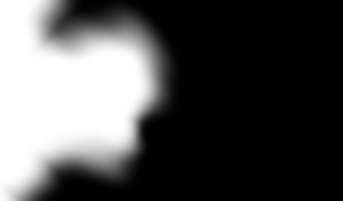
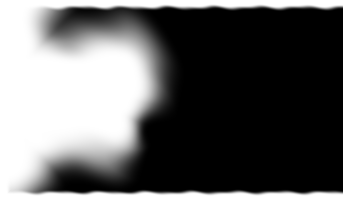
BTS release 42: phase 2 on by default, desktop seam fix (ready to publish)
- Phase 2 (phones and 960 to 1279, as 245a9b5) is ON by default: a
  plain `python3 build_site.py web` builds the approved site.
  HSS_P2=0 turns it off for comparison only. HSS_WWD04 is unchanged.
- Desktop (from 1280): the phase 1 fill masks get the same post-blur
  edge band as phase 2 from 960px: alpha 0 within 11px of the top,
  bottom and left box edges, a 16px wavy fade-in and rounded left
  corners. Crops, positions and fades are otherwise unchanged.
- Beyond 1920 the wall-side layer is the overflow gradient intersected
  with a band strip (bts-<key>-wall.png). It is applied from 1921px
  only, so up to 1920 nothing extra downloads.
- CLAUDE.md: phase 2 is on by default; never deploy with HSS_P2=0.

Claude-Session: https://claude.ai/code/session_01ToX74WXy7pcyTTtmuot5ru

Changed region(s): [[0.0, 0.9254, 1.0, 1.0], [0.1166, 0.0, 1.0, 0.0597]]

diff --git a/build_site.py b/build_site.py
@@ -3867,6 +3867,7 @@ def bts_build():
     want = ({f"bts-{k}-{w}.{e}" for k in BTS for w in BTS[k][2] for e in ("avif", "webp")}
             | {f"bts-{k}-mask.png" for k in BTS if not ("@" in k or (k[-1] in "fw" and k[:-1] in BTS))}
             | {f"bts-{k}-fill.png" for k in BTS}
+            | {f"bts-{k}-wall.png" for k in BTS}
             | {f"bts-{k}@{rg}-{t}.png" for rg in "pqrsumt" for k in BTS for t in ("clear", "edge")})
     for n in os.listdir(BTS_DIR):
         if n.startswith("bts-") and n not in want:
@@ -3952,6 +3953,20 @@ BTS_QUIET = {
 if BTS_WWD04 == "B":
     BTS_BOX["wwd04"] = (560, "100% 46%", True)   # the RED rig, monitor and matte box solid; 37ch copy
     BTS_QUIET["wwd04"] = ((0.04, 0.0, 0.34, 0.6), (0.05, 1.0, 0.34, 0.45))
+
+
+def _bts_band(xr, yr, w, h, left=True):
+    """Desktop edge band (release 42 seam fix): 0 within 11px of the top, the bottom and (when
+    `left`) the left edge of a box w x h, then a 16px wavy fade-in; rounded left corners. The
+    right edge is the wall. Applied after the mask's blur, so the edges stay at alpha 0."""
+    dv = min(yr, h - yr)
+    if left:
+        rc = min(24.0, 0.15 * min(w, h))
+        d = rc - math.hypot(rc - xr, rc - dv) if (xr < rc and dv < rc) else min(xr, dv)
+    else:
+        d = dv
+    e = (d - 11 - 10 * _bts_noise(xr * 2.5, yr * 2.5, 6.0)) / 16
+    return 0.0 if e <= 0 else _bts_ease(1 - min(1.0, e))
 
 
 def _bts_noise(x, y, seed):
@@ -4087,11 +4102,36 @@ def bts_fill_mask(key, out):
                 bl[n] = min(bl[n], 10)
                 worst = max(worst, bl[n])
         assert worst / 255 < 0.05, f"bts: {key} fill mask too opaque over type"
+        for j in range(mh):                                 # alpha 0 along the box's non-wall edges
+            for i in range(mw):
+                n = j * mw + i
+                bl[n] = round(bl[n] * _bts_band((i + 0.5) * W19 / mw, (j + 0.5) * H / mh, W19, H))
         with open(pgm, "wb") as f_:
             f_.write(b"P5 %d %d 255\n" % (mw, mh) + bytes(bl))
         subprocess.run(["ffmpeg", "-v", "error", "-y", "-i", pgm, "-filter_complex",
                         f"[0:v]format=gray[m];color=c=black:s={mw}x{mh},format=gray[c];[c][m]alphamerge,format=ya8",
                         "-frames:v", "1", "-map_metadata", "-1", out], check=True)
+        # beyond the 1920 width the wall-side layer shows; this strip (stretched to the box) keeps
+        # its top and bottom at 0 too, with the fill's own top and bottom fades
+        sw = 80
+        band = []
+        for j in range(mh):
+            Yr = (j + 0.5) * H / mh
+            for i in range(sw):
+                X = W19 + i * 6
+                a = _bts_band(X, Yr, W19 + sw * 6, H, left=False)
+                if topf:
+                    e = (Yr - 24 * _bts_noise(X * 1.6, Yr * 0.3, 4.0)) / 36
+                    a = min(a, 0.0 if e <= 0 else _bts_ease(1 - min(1.0, e)))
+                if bottom:
+                    e = ((H - Yr) - 26 * _bts_noise(X, Yr * 0.3, 3.0)) / 64
+                    a = min(a, 0.0 if e <= 0 else _bts_ease(1 - min(1.0, e)))
+                band.append(round(255 * a))
+        with open(pgm, "wb") as f_:
+            f_.write(b"P5 %d %d 255\n" % (sw, mh) + bytes(band))
+        subprocess.run(["ffmpeg", "-v", "error", "-y", "-i", pgm, "-filter_complex",
+                        f"[0:v]format=gray[m];color=c=black:s={sw}x{mh},format=gray[c];[c][m]alphamerge,format=ya8",
+                        "-frames:v", "1", "-map_metadata", "-1", out.replace("-fill.png", "-wall.png")], check=True)
     hard, straight = bts_edge_check([v / 255 for v in bl], mw, mh)
     return W19, H, hard, straight
 
@@ -4099,13 +4139,14 @@ def bts_fill_mask(key, out):
 BTS_FILL = {}
 BTS_EDGES = {}
 if MODE == "web" and BTS_LAYOUT:
-    _lr = hashlib.sha1(json.dumps([BTS_WWD04, BTS_LAYOUT, BTS_POOLS, BTS_PAD, BTS_TILT, BTS_BOX, BTS_MS, BTS_QUIET, sorted(BTS_KEEP), BTS_FAR, 16]).encode()).hexdigest()[:12]
+    _lr = hashlib.sha1(json.dumps([BTS_WWD04, BTS_LAYOUT, BTS_POOLS, BTS_PAD, BTS_TILT, BTS_BOX, BTS_MS, BTS_QUIET, sorted(BTS_KEEP), BTS_FAR, 17]).encode()).hexdigest()[:12]
     for _k in BTS_BOX:
         _o = f"{BTS_DIR}/bts-{_k}-fill.png"
         _fk = _k + "f" if _k + "f" in BTS else _k
         _rh = _lr + _bts_recipe(_fk)
         _ec = BTS_MAN[_k].get("edges")
-        if BTS_MAN[_k].get("fill") != _rh or not os.path.exists(_o) or not _ec:
+        if (BTS_MAN[_k].get("fill") != _rh or not os.path.exists(_o) or not _ec
+                or not os.path.exists(_o.replace("-fill.png", "-wall.png"))):
             _w, _h, _hd, _st = bts_fill_mask(_k, _o)
             BTS_MAN[_k]["fill"], BTS_MAN[_k]["edges"] = _rh, [_hd, _st]
             print(f"  bts: fill mask {_k}: {_w}x{_h}, hard edges {_hd}, straight feathers {_st}")
@@ -4302,7 +4343,7 @@ def bts_p2_masks(rg, key):
           + " ".join(f"{min(v):.2f}..{max(v):.2f}" for v in per.values()))
 
 
-BTS_P2_ON = os.environ.get("HSS_P2", "0") == "1"     # phase 2 ships only when complete
+BTS_P2_ON = os.environ.get("HSS_P2", "1") != "0"     # on (owner approved); HSS_P2=0 turns it off
 if MODE == "web" and BTS_LAYOUT2 and BTS_P2_ON:
     for _rg, (_mq, _ph, _keys) in BTS_RANGE.items():
         for _k in _keys:
@@ -4419,7 +4460,7 @@ def _bts_css():
     mask, anchored at the box's left; a wall-side layer only beyond the mask's 1920 width.
     Nothing below 1280px."""
     blocks = {"wwd01": "wwd-social", "wwd02": "wwd-commercial", "wwd03": "wwd-brand", "wwd04": "wwd-podcast"}
-    out = []
+    out, wide = [], []
     for k, (w19, h) in BTS_FILL.items():
         left, pos, _b = BTS_BOX[k]
         lay = BTS_LAYOUT[k]
@@ -4431,10 +4472,18 @@ def _bts_css():
         else:
             sel, geo = f"#{blocks[k]} .wwd-head > .bts", f"left:{left - 184}px;right:calc(50% - 50vw);"
         beyond = f"max(0px, calc(100% - {w19}px))"
-        m = f"url({url}),linear-gradient(to left,#000 {beyond},transparent {beyond})"
+        wall = asset(f"{BTS_DIR}/bts-{k}-wall.png", "image/png")
+        # up to 1920 the box is never wider than the mask: one layer. Wider, the wall side is the
+        # overflow gradient intersected with the band strip (only then is the strip downloaded)
+        m = f"url({url}),linear-gradient(to left,#000 {beyond},transparent {beyond}),url({wall})"
+        wide.append(f"    {sel}{{-webkit-mask-image:{m};mask-image:{m};"
+                    f"-webkit-mask-size:{w19}px {h}px,100% 100%,100% 100%;mask-size:{w19}px {h}px,100% 100%,100% 100%;"
+                    f"-webkit-mask-position:0 0,0 0,0 0;mask-position:0 0,0 0,0 0;"
+                    f"-webkit-mask-composite:source-over,source-in,source-over;mask-composite:add,intersect,add;}}\n")
+        m = f"url({url})"
         out.append(f"    {sel}{{{geo}top:{lay['topFromAnchor']}px;height:{h}px;"
-                   f"-webkit-mask-image:{m};mask-image:{m};-webkit-mask-size:{w19}px {h}px,100% 100%;"
-                   f"mask-size:{w19}px {h}px,100% 100%;-webkit-mask-position:0 0,0 0;mask-position:0 0,0 0;}}\n"
+                   f"-webkit-mask-image:{m};mask-image:{m};-webkit-mask-size:{w19}px {h}px;"
+                   f"mask-size:{w19}px {h}px;-webkit-mask-position:0 0;mask-position:0 0;}}\n"
                    f"    {sel} img{{object-position:{pos};}}\n")
     return """
   /* Behind-the-scenes photos (release 42): see BTS in build_site.py and CLAUDE.md */
@@ -4451,7 +4500,7 @@ def _bts_css():
     section.wwd{isolation:isolate;overflow-x:clip;}
     .wwd-head{position:relative;}
     .wwd-head > .bts,footer > .wrap > .bts{z-index:-1;}
-""" + "".join(out) + "  }\n"
+""" + "".join(out) + "  }\n  @media(min-width:1921px){\n" + "".join(wide) + "  }\n"
 
 
 BTS_CSS = _bts_css() if MODE == "web" else ""

diff --git a/CLAUDE.md b/CLAUDE.md
@@ -60,7 +60,7 @@ Live: **/** (homepage), **/our-work** (portfolio), **/packages** (Social Media P
 
 ```bash
 python3 build_site.py         # single self-contained file for the private Claude artifact
-python3 build_site.py web     # writes ./deploy
+python3 build_site.py web     # writes ./deploy (BTS phase 2 is on by default; never set HSS_P2=0 for a deploy)
 ./deploy_github.sh            # rebuild and push live in one command  <-- THIS ONE
 ```
 
@@ -1381,9 +1381,17 @@ which every change must pass:
       previous block's media row with a wavy top fade. The divider becomes a gradient that fades
       out just before the photo (`--wwd-line`). The spacing is unchanged.
     - **The heroes, 01 and the footer have no such strip:** they start at a band or section edge.
-  - **Phase 2 (phones and 960 to 1279) is complete, and off until the owner approves it.**
-    `HSS_P2=1` turns it on; the default build renders exactly as without it (byte-identical
-    pages, checked).
+  - **Phase 2 (phones and 960 to 1279) is approved (owner, release 42) and ON by default.** A
+    plain `python3 build_site.py web` builds it. `HSS_P2=0` turns it off, for comparison only.
+    Never deploy with it.
+  - **Desktop edge band (release 42 seam fix):** the phase 1 fill masks (from 1280px) get the
+    same post-blur band as phase 2 from 960px. Alpha is 0 within 11px of the top, the bottom
+    and the left box edges, then a 16px wavy fade-in, with rounded left corners
+    (`_bts_band()`). Nothing else about the desktop look changed.
+    - Beyond the masks' 1920 width, the wall-side layer is the overflow gradient intersected
+      with `bts-<key>-wall.png`. That strip keeps the band and the fill's top and bottom fades
+      (`mask-composite:add,intersect,add`), from 1921px only (so up to 1920 nothing extra downloads).
+    - Checked with `tools/seam42.mjs` at 1280, 1440 and 1920.
     - **Ranges:**
       - phones 320 to 479: What We Do 02 to 04, and 01 from 360px (at 320 the owner and his
         phone sit under the title and slate clearance, so 01 neither shows nor downloads there);
